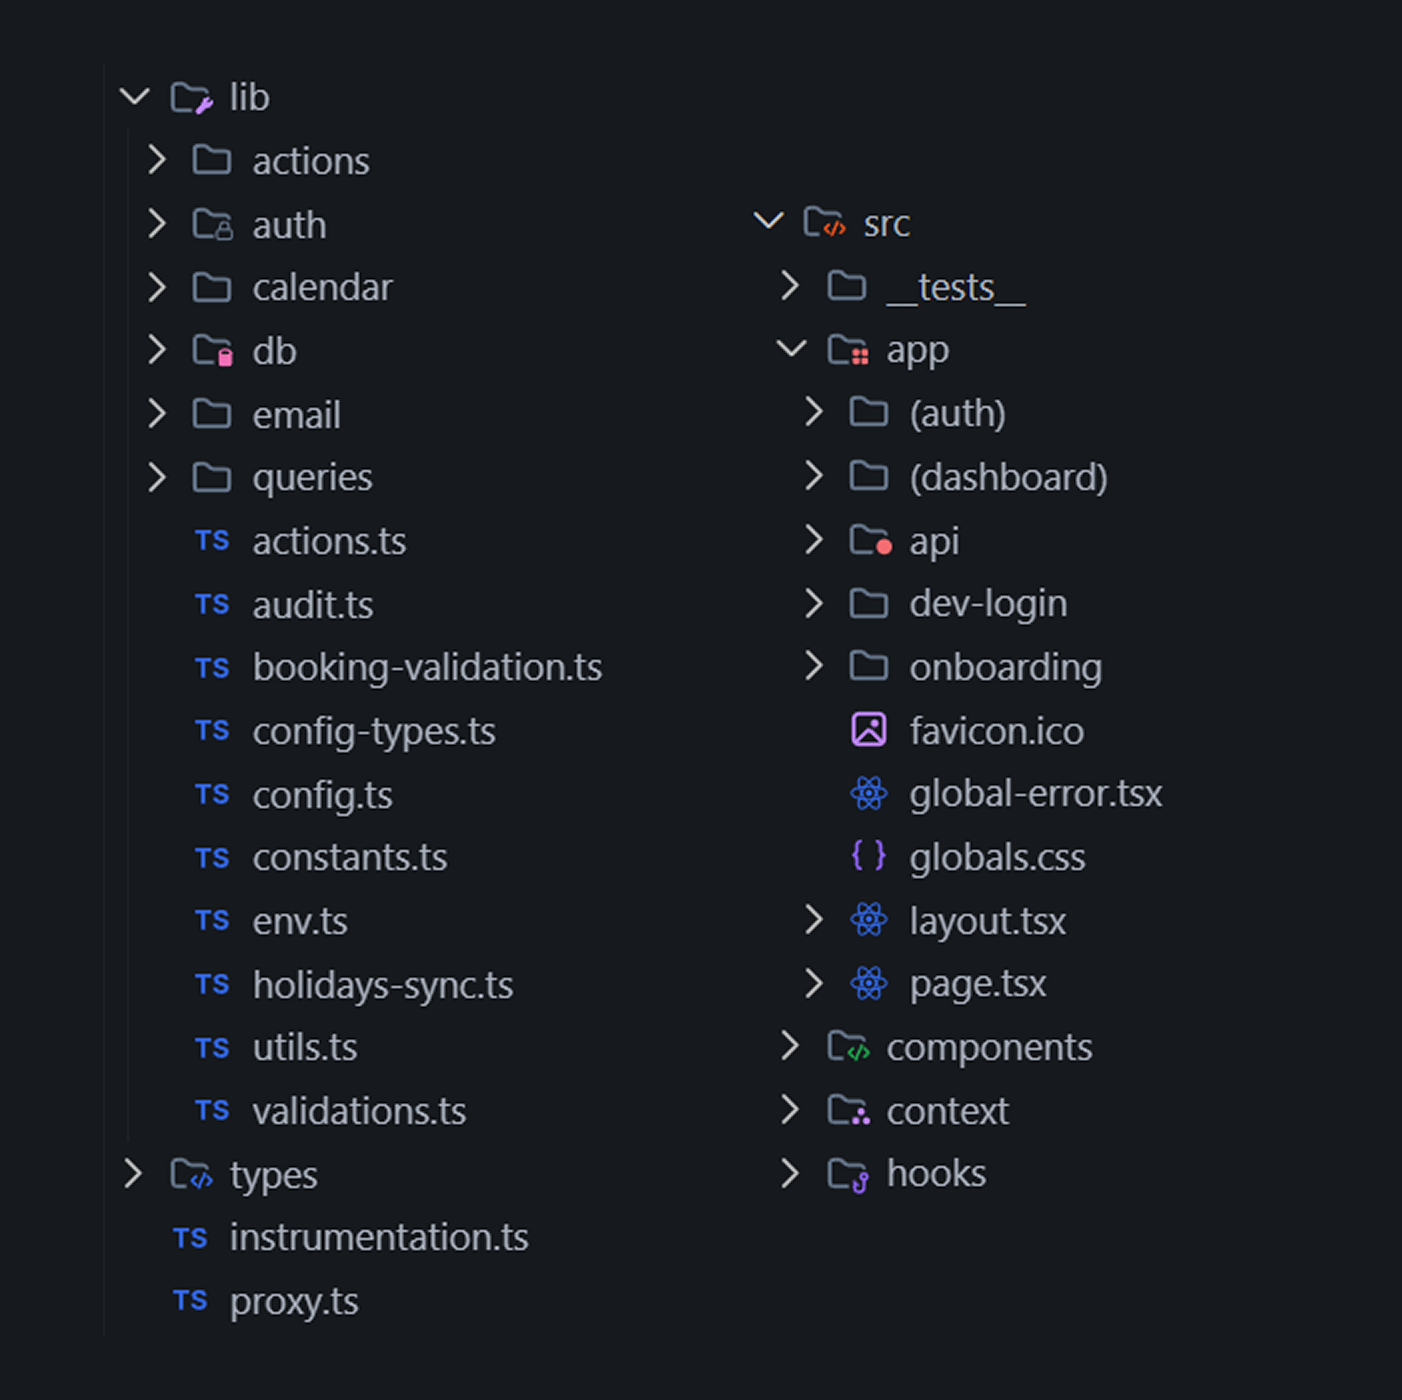
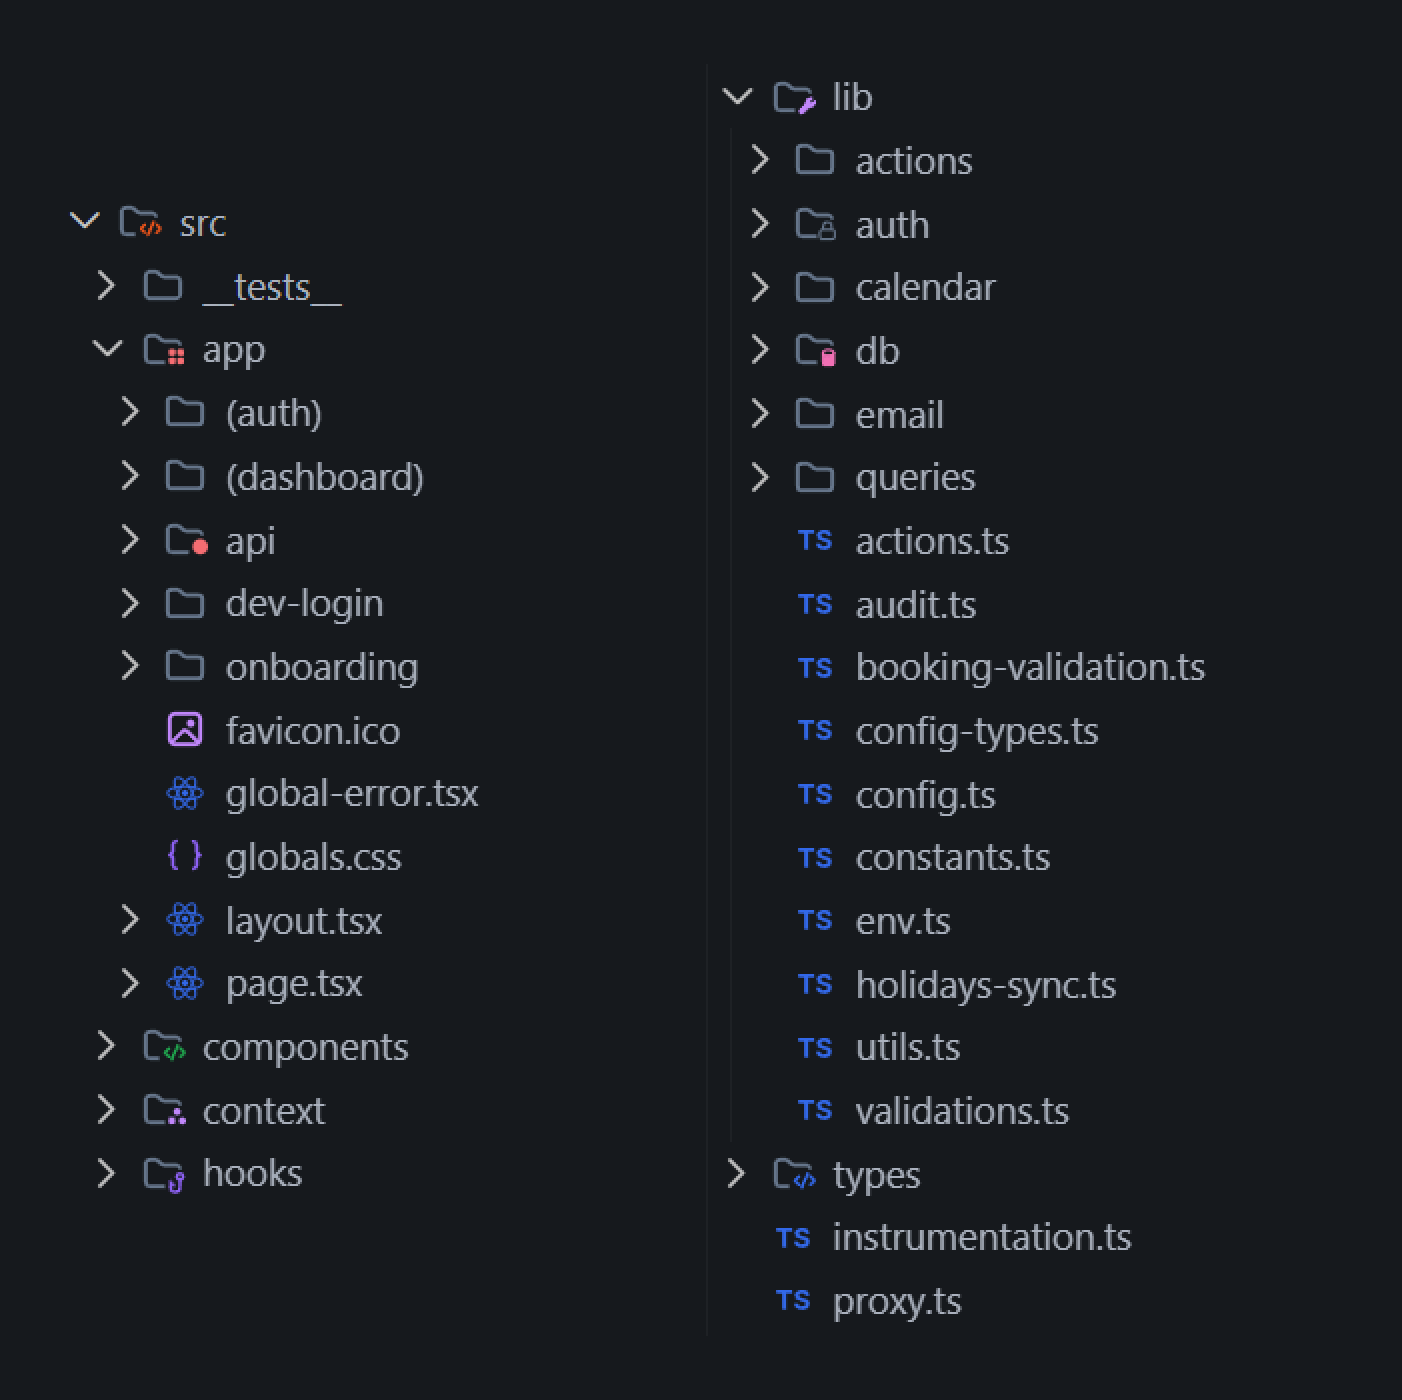
update: indice

diff --git a/README.md b/README.md
@@ -35,10 +35,10 @@ de evolución.
 
 ## 📂 Documentación del TFG
 
-|               | Resumen         | Capítulo I                                                                            | Capítulo II                          | Capítulo III                                     | Capítulos IV/V |
-| ------------- | --------------- | ------------------------------------------------------------------------------------- | ------------------------------------ | ------------------------------------------------ | -------------- |
-| **Fecha**     | -               | 16/03                                                                                 | 06/04                                | 27/04                                            | 25/05          |
-| **Documento** | _(este README)_ | [Introducción](docs/TFG/INTRODUCCION.md) y [Marco teórico](docs/TFG/MARCO_TEORICO.md) | [Requisitos](docs/TFG/REQUISITOS.md) | [Análisis y diseño](docs/TFG/ANALISIS_DISENO.md) | -              |
+|               | Resumen         | Capítulo I                                                                            | Capítulo II                          | Capítulo III                                     | Capítulos IV/V                                           |
+| ------------- | --------------- | ------------------------------------------------------------------------------------- | ------------------------------------ | ------------------------------------------------ | -------------------------------------------------------- |
+| **Fecha**     | -               | 16/03                                                                                 | 06/04                                | 27/04                                            | 26/05                                                    |
+| **Documento** | _(este README)_ | [Introducción](docs/TFG/INTRODUCCION.md) y [Marco teórico](docs/TFG/MARCO_TEORICO.md) | [Requisitos](docs/TFG/REQUISITOS.md) | [Análisis y diseño](docs/TFG/ANALISIS_DISENO.md) | [Descripción de la solución](docs/TFG/IMPLEMENTACION.md) |
 
 | [Cap. 1 →](docs/TFG/INTRODUCCION.md) |
 | -----------------------------------: |